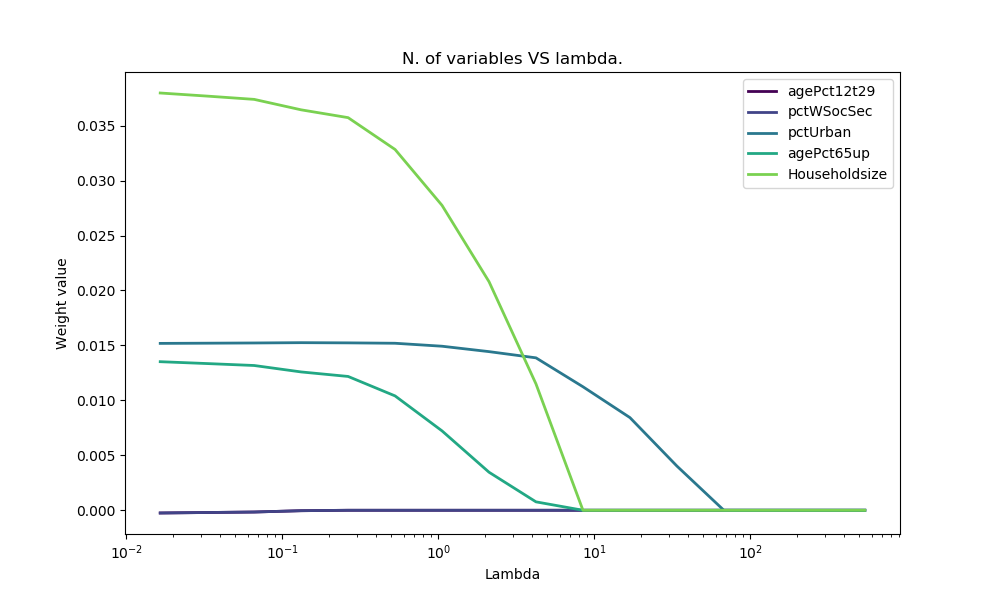
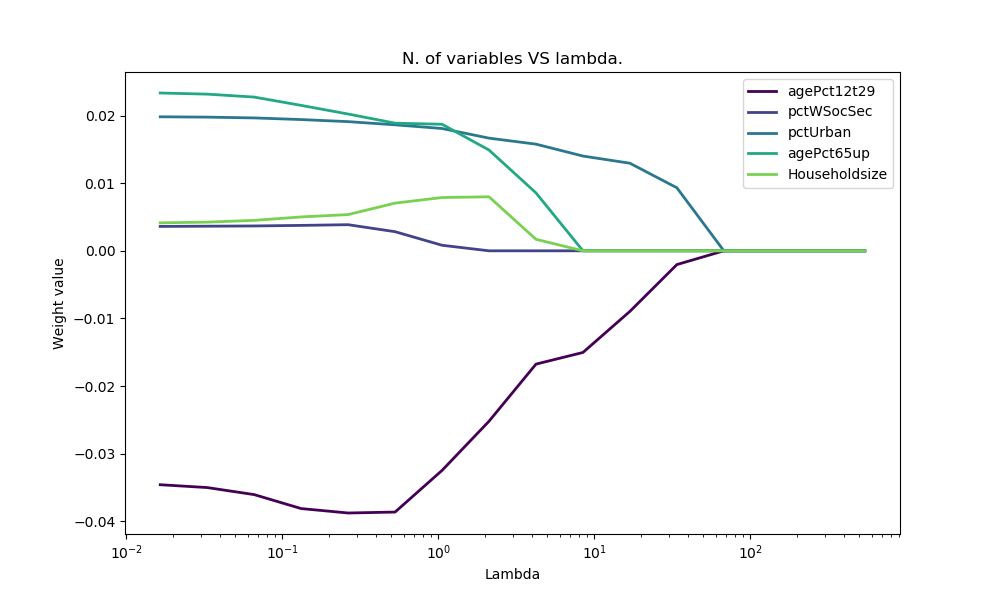
Fix for missplot in A5.

diff --git a/HW2/HW2_code_solutions/coordinate_descent.py b/HW2/HW2_code_solutions/coordinate_descent.py
@@ -55,7 +55,7 @@ def coordinate_descent(x, y, lambd, tolerance=0.001, initW=None,
             oldW = w.copy()
 
         # Algorithm 1 implementation
-        b = np.mean(y - np.dot(x, w)) / n
+        b = np.mean(y - np.dot(x, w))
         for k in range(d):
             xk = x[:, k]
             ak = squaredX[:, k].sum()
@@ -77,6 +77,7 @@ def coordinate_descent(x, y, lambd, tolerance=0.001, initW=None,
 
             if convergeFast:
                 deltas.append(delta)
+
         if convergeFast:
             # Find maximum difference between iterations
             convergeCriterion = abs(oldMax-max(deltas))
@@ -333,7 +334,7 @@ def mean_square_error(x, y, w):
     return (a.T @ a)/len(y)
 
 
-def A5ab(tolerance=0.001):
+def A5ab(tolerance=0.0001):
     """Sets the data up as instructed by problem A5 and runs coordinate
     descent Lasso algorithm untill the change in regularization parameter is
     smaller than 0.01. Each iteration decreases regularization parameter by a
@@ -390,7 +391,7 @@ def A5ab(tolerance=0.001):
 
     c = plt.cm.viridis(np.linspace(0, 0.8, 5))
     fig2, ax2 = plt.subplots(figsize=(10, 6))
-    plot(ax2, lambdas, wPctSoc, label="agePct12t29", lc=c[0])
+    plot(ax2, lambdas, wAgePct12, label="agePct12t29", lc=c[0])
     plot(ax2, lambdas, wPctSoc, label="pctWSocSec", lc=c[1])
     plot(ax2, lambdas, wPctUrban, label="pctUrban", lc=c[2])
     plot(ax2, lambdas, wAgePct65, label="agePct65up", lc=c[3])
@@ -426,12 +427,9 @@ def A5cd(tolerance=0.001):
     w = np.zeros(d)
     lambd = 30
 
-    lambdas, numNonZeros, = [], []
     w = coordinate_descent(xTrain.values, yTrain.values, lambd,
                            tolerance=tolerance, initW=w, convergeFast=False)
-    numNonZeros.append(np.count_nonzero(w))
-    lambdas.append(lambd)
-
+ 
     idxMaxW = w == max(w)
     idxMinW = w == min(w)
     print(f"Maximal value of $w={w[idxMaxW][0]:.4f}$ belongs to feature {xTrain.columns[idxMaxW][0]}")
